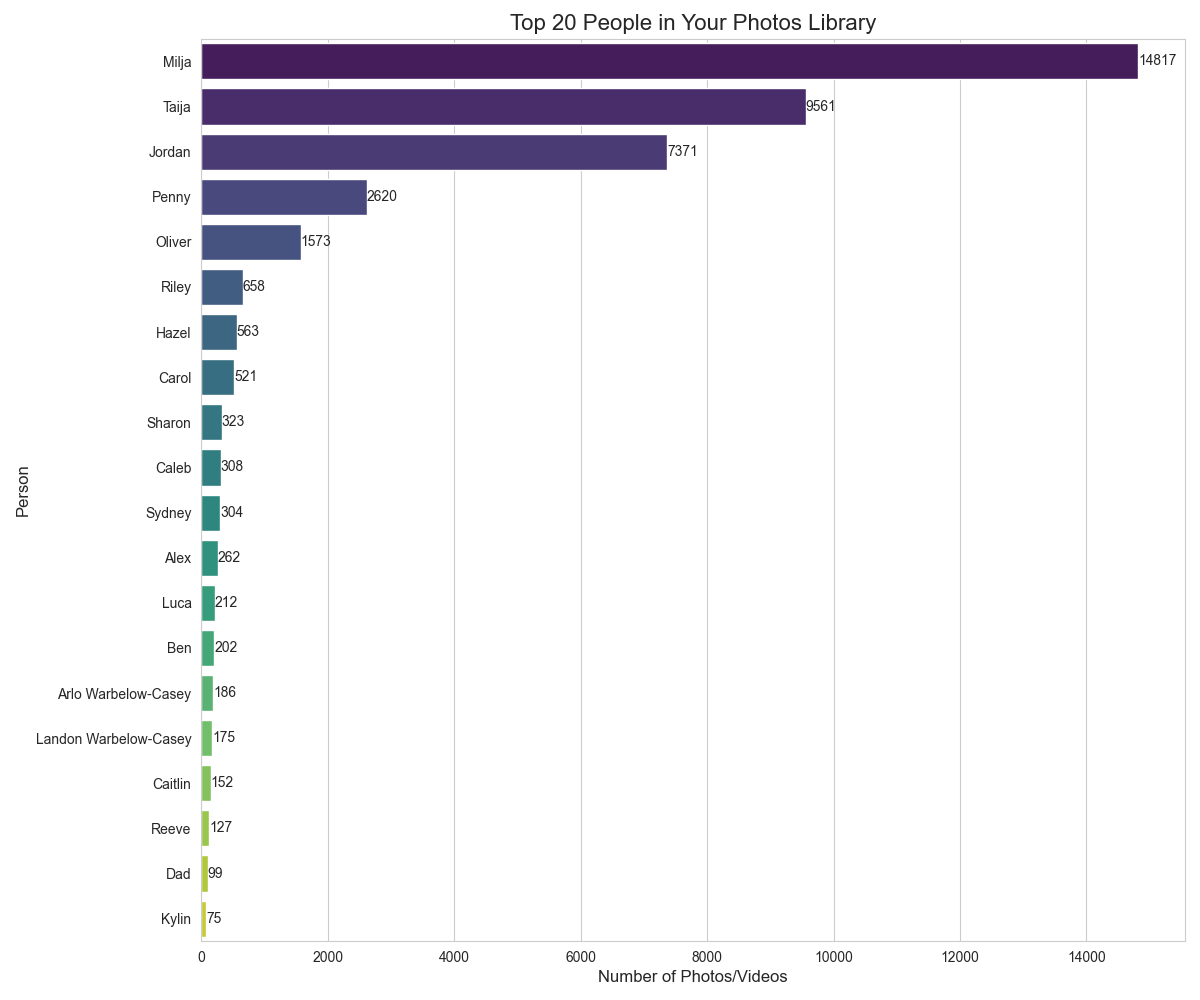
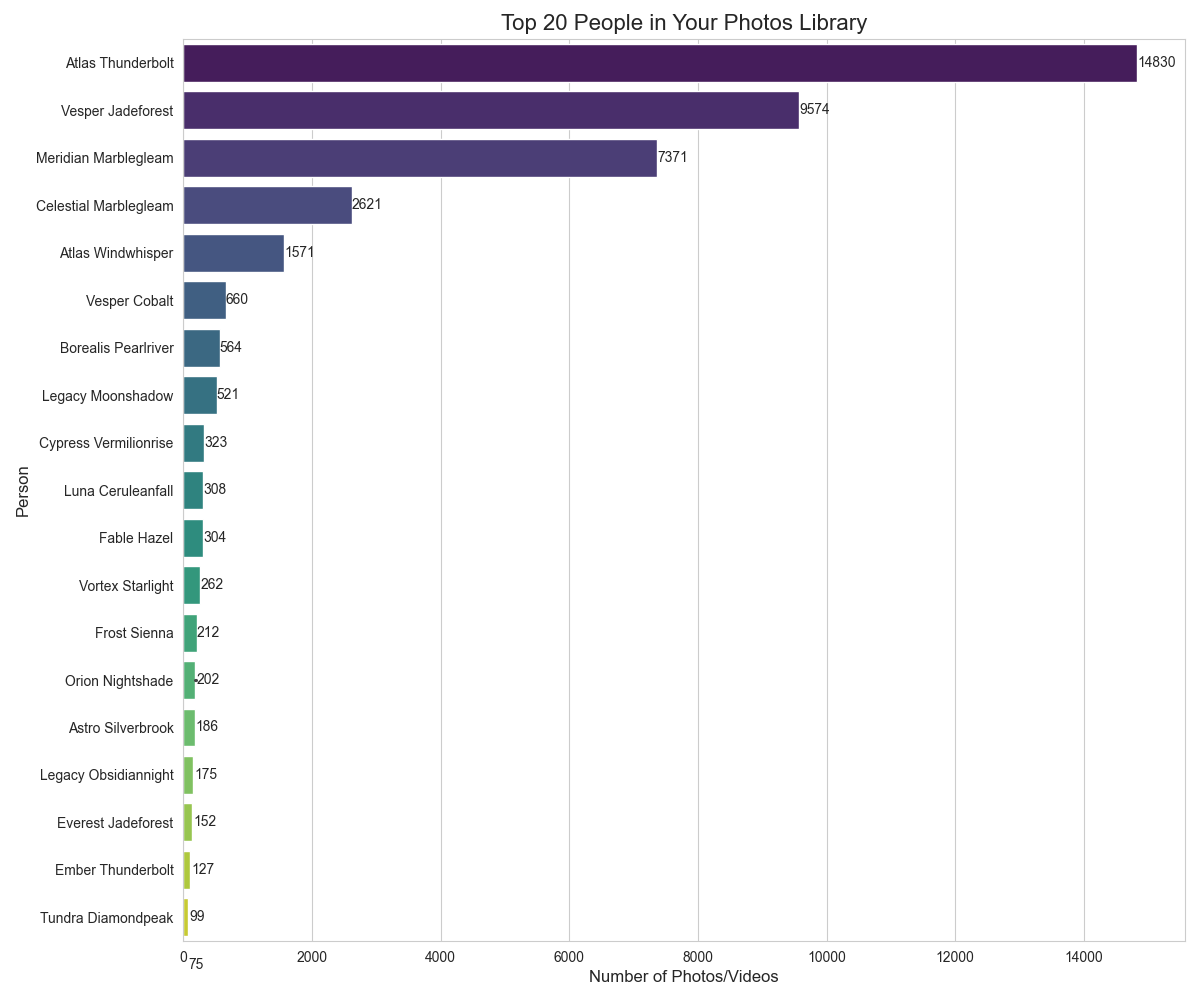
Anonymize people names with fictional names for privacy

diff --git a/analyze_photos_people.py b/analyze_photos_people.py
@@ -6,13 +6,54 @@ import seaborn as sns
 from datetime import datetime
 import os
 import numpy as np
+import hashlib
+import random
 
 # Path to the Photos Library database
 PHOTOS_DB_PATH = "/Users/jordan/Pictures/Photos Library.photoslibrary/database/Photos.sqlite"
 
+# Flag to enable name anonymization
+ANONYMIZE_NAMES = True
+
+# List of fictional first names for anonymization
+FICTIONAL_FIRST_NAMES = [
+    "Zephyr", "Luna", "Atlas", "Nova", "Orion", "Sage", "Phoenix", "Echo", "Caspian", "Aurora",
+    "Ember", "Indigo", "Jasper", "Lyra", "Cosmo", "Juniper", "Cypress", "Solstice", "Zenith", "Nebula",
+    "Fable", "Quasar", "Tempest", "Vesper", "Wren", "Zion", "Astro", "Borealis", "Celestial", "Dune",
+    "Everest", "Frost", "Galaxy", "Horizon", "Infinity", "Jupiter", "Krypton", "Legacy", "Meridian", "Neon",
+    "Olympus", "Pixel", "Quantum", "Rogue", "Stellar", "Tundra", "Utopia", "Vortex", "Whisper", "Xenon"
+]
+
+# List of fictional last names for anonymization
+FICTIONAL_LAST_NAMES = [
+    "Starlight", "Moonbeam", "Thunderbolt", "Winterfall", "Summercrest", "Nightshade", "Daybreak", "Skydancer", "Fireforge", "Stormchaser",
+    "Dreamweaver", "Shadowheart", "Lightbringer", "Cloudwalker", "Riverdance", "Mountaincrest", "Oceantide", "Windwhisper", "Sunseeker", "Moonshadow",
+    "Stardust", "Frostfire", "Wildflower", "Silverbrook", "Goldenhawk", "Ironwood", "Crystalclear", "Emeraldsky", "Sapphirewave", "Rubyheart",
+    "Diamondpeak", "Amberlight", "Pearlriver", "Jadeforest", "Obsidiannight", "Marblegleam", "Coralreef", "Azuresky", "Crimsonflame", "Violetdusk",
+    "Indigomist", "Tealbreeze", "Magentabloom", "Vermilionrise", "Ceruleanfall", "Sienna", "Hazel", "Cobalt", "Amber", "Slate"
+]
+
 def connect_to_db(db_path):
     """Connect to the SQLite database."""
     return sqlite3.connect(db_path)
+
+def anonymize_name(name, person_id=None):
+    """Anonymize a person's name with a fictional but consistent name."""
+    if not ANONYMIZE_NAMES:
+        return name
+    
+    # Use the hash of the original name to ensure consistent anonymization
+    hash_object = hashlib.md5(name.encode())
+    hash_int = int(hash_object.hexdigest(), 16)
+    
+    # Use the hash to deterministically select first and last names
+    first_name_index = hash_int % len(FICTIONAL_FIRST_NAMES)
+    last_name_index = (hash_int // len(FICTIONAL_FIRST_NAMES)) % len(FICTIONAL_LAST_NAMES)
+    
+    first_name = FICTIONAL_FIRST_NAMES[first_name_index]
+    last_name = FICTIONAL_LAST_NAMES[last_name_index]
+    
+    return f"{first_name} {last_name}"
 
 def get_people_data(conn):
     """Query the database to get data about people in the Photos Library."""
@@ -36,6 +77,14 @@ def get_people_data(conn):
     """
     
     df = pd.read_sql_query(query, conn)
+    
+    # Anonymize names if enabled
+    if ANONYMIZE_NAMES:
+        # Store original names for internal reference
+        df['original_name'] = df['person_name']
+        # Apply anonymization
+        df['person_name'] = df.apply(lambda row: anonymize_name(row['person_name'], row['person_id']), axis=1)
+    
     return df
 
 def get_people_timeline(conn):
@@ -60,6 +109,11 @@ def get_people_timeline(conn):
     """
     
     df = pd.read_sql_query(query, conn)
+    
+    # Anonymize names if enabled
+    if ANONYMIZE_NAMES:
+        # Apply anonymization
+        df['person_name'] = df.apply(lambda row: anonymize_name(row['person_name'], row['person_id']), axis=1)
     
     # Convert timestamps from Mac Core Data format (seconds since 2001-01-01) to Python datetime
     # Mac Core Data epoch is 2001-01-01
@@ -173,8 +227,15 @@ def print_people_statistics(people_df):
 
 def export_to_csv(people_df):
     """Export the people data to a CSV file."""
+    # Create a copy to avoid modifying the original dataframe
+    export_df = people_df.copy()
+    
+    # Remove the original_name column if it exists (for privacy)
+    if 'original_name' in export_df.columns:
+        export_df = export_df.drop(columns=['original_name'])
+        
     csv_path = 'photos_people_data.csv'
-    people_df.to_csv(csv_path, index=False)
+    export_df.to_csv(csv_path, index=False)
     print(f"Data exported to {csv_path}")
 
 def main():
